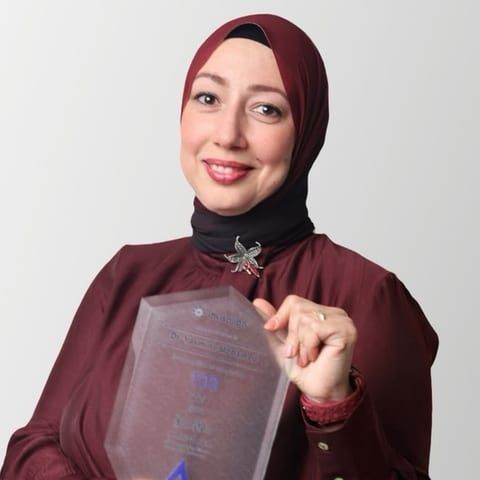
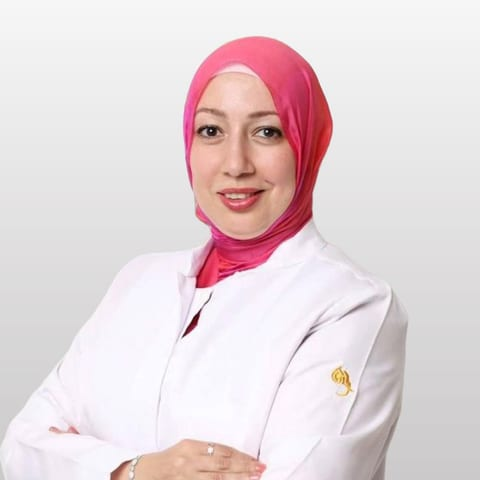
Add the dental team, new photos, doctors grouped by department with their branch
- Dentistry: Dr. Ahmed Sobhi, Dr. Ali Al-Khalili, Dr. Souad (moved from dermatology),
  Dr. Abdullah Al-Otaibi. Dermatology: Dr. Yasmine, Dr. Fatima Al-Zahraa (new photos),
  consultant Ahmed Al-Thubaiti.
- The medical staff section groups doctors by department and shows each one's branch;
  portrait crops for the cards.
- New doctors use clinic hours until their schedules are provided.

diff --git a/src/components/DoctorsSection.tsx b/src/components/DoctorsSection.tsx
@@ -1,18 +1,20 @@
 "use client";
 
 import Image from "next/image";
-import { CalendarCheck } from "lucide-react";
+import { CalendarCheck, MapPin } from "lucide-react";
 import { prefillBooking } from "@/lib/booking-prefill";
 import { useLocale } from "@/lib/locale-context";
 import Eyebrow from "./Eyebrow";
+import { serviceIconMap } from "./icon-map";
 
-// Every named doctor across the services, each with a one-tap "book with" that fills in the booking form.
+// Named doctors grouped by department (dentistry, dermatology…), each with their branch and a one-tap
+// "book with" that fills in the booking form.
 export default function DoctorsSection() {
   const { t } = useLocale();
-  const doctors = t.services.flatMap((s) =>
-    s.team.filter((m) => m.name && m.photo).map((m) => ({ ...m, service: s.icon })),
-  );
-  if (doctors.length === 0) return null;
+  const departments = t.services
+    .map((s) => ({ service: s, doctors: s.team.filter((m) => m.name && m.photo) }))
+    .filter((d) => d.doctors.length > 0);
+  if (departments.length === 0) return null;
 
   return (
     <section id="doctors" className="scroll-anchor bg-surface2">
@@ -23,40 +25,63 @@ export default function DoctorsSection() {
           <p className="mt-3 text-[14.5px] leading-relaxed text-ink-soft">{t.doctorsIntro}</p>
         </div>
 
-        <div className="mt-8 grid grid-cols-2 gap-4 md:grid-cols-4 md:gap-5">
-          {doctors.map((d) => (
-            <article
-              key={d.name}
-              className="group flex flex-col overflow-hidden rounded-2xl border border-line/25 bg-surface transition duration-300 hover:-translate-y-1.5 hover:shadow-[0_20px_40px_-20px_rgba(156,122,46,0.45)]"
-            >
-              <div className="relative aspect-[4/5] overflow-hidden bg-surface2">
-                <Image
-                  src={d.photo!}
-                  alt={d.name!}
-                  fill
-                  sizes="(min-width: 768px) 25vw, 50vw"
-                  className="object-cover object-top transition-transform duration-500 group-hover:scale-105"
-                />
+        {departments.map(({ service, doctors }) => {
+          const Icon = serviceIconMap[service.icon];
+          return (
+            <div key={service.icon} className="mt-10">
+              <h3 className="flex items-center gap-3 font-display text-[19px] text-ink">
+                <span className="grid h-9 w-9 place-items-center rounded-full bg-surface">
+                  <Icon size={18} className="text-gold" />
+                </span>
+                {service.title}
+                <span className="h-px flex-1 bg-line/30" />
+              </h3>
+
+              <div className="mt-5 grid grid-cols-2 gap-4 md:grid-cols-4 md:gap-5">
+                {doctors.map((d) => (
+                  <article
+                    key={d.name}
+                    className="group flex flex-col overflow-hidden rounded-2xl border border-line/25 bg-surface transition duration-300 hover:-translate-y-1.5 hover:shadow-[0_20px_40px_-20px_rgba(156,122,46,0.45)]"
+                  >
+                    <div className="relative aspect-[4/5] overflow-hidden bg-surface2">
+                      <Image
+                        src={d.portrait ?? d.photo!}
+                        alt={d.name!}
+                        fill
+                        sizes="(min-width: 768px) 25vw, 50vw"
+                        className="object-cover object-top transition-transform duration-500 group-hover:scale-105"
+                      />
+                    </div>
+                    <div className="flex flex-1 flex-col items-center gap-1 px-3 pt-3.5 pb-4 text-center">
+                      <p className="text-[15px] font-bold text-ink">{d.name}</p>
+                      <p className="text-[12.5px] leading-snug text-gold">{d.role}</p>
+                      {d.branch && (
+                        <p className="flex items-center gap-1 text-[12px] text-ink-soft">
+                          <MapPin size={12} />
+                          {t.branches.find((b) => b.id === d.branch)?.name}
+                        </p>
+                      )}
+                      <button
+                        type="button"
+                        onClick={() =>
+                          prefillBooking({ service: service.icon, branch: d.branch, doctor: d.name, doctorId: d.id })
+                        }
+                        className="mt-auto flex items-center gap-1.5 whitespace-nowrap rounded-full border border-gold-bright/60 px-3.5 py-1.5 text-[12.5px] font-bold text-gold transition-colors hover:bg-gold-bright hover:text-night2"
+                      >
+                        <CalendarCheck size={14} />
+                        {/* The name is right above on phones, so keep the button to one line there. */}
+                        <span className="md:hidden">{t.ctaBookNow}</span>
+                        <span className="hidden md:inline">
+                          {t.booking.bookWith} {d.name}
+                        </span>
+                      </button>
+                    </div>
+                  </article>
+                ))}
               </div>
-              <div className="flex flex-1 flex-col items-center gap-1 px-3 pt-3.5 pb-4 text-center">
-                <p className="text-[15px] font-bold text-ink">{d.name}</p>
-                <p className="text-[12.5px] text-gold">{d.role}</p>
-                <button
-                  type="button"
-                  onClick={() => prefillBooking({ service: d.service, branch: d.branch, doctor: d.name, doctorId: d.id })}
-                  className="mt-auto flex items-center gap-1.5 whitespace-nowrap rounded-full border border-gold-bright/60 px-3.5 py-1.5 text-[12.5px] font-bold text-gold transition-colors hover:bg-gold-bright hover:text-night2"
-                >
-                  <CalendarCheck size={14} />
-                  {/* The name is right above on phones, so keep the button to one line there. */}
-                  <span className="md:hidden">{t.ctaBookNow}</span>
-                  <span className="hidden md:inline">
-                    {t.booking.bookWith} {d.name}
-                  </span>
-                </button>
-              </div>
-            </article>
-          ))}
-        </div>
+            </div>
+          );
+        })}
       </div>
     </section>
   );

diff --git a/src/lib/content.ts b/src/lib/content.ts
@@ -20,6 +20,8 @@ export interface TeamMember {
   branch?: Branch["id"];
   // Links to their working hours in lib/doctors.ts.
   id?: DoctorId;
+  // Taller crop for the medical staff section; falls back to photo.
+  portrait?: string;
 }
 
 export interface ServiceContent {
@@ -260,7 +262,12 @@ export const arContent: Content = {
       extraLabel: "دليل درجات البياض",
       extraType: "shadeGuide",
       note: "دقة تشبه الحِرفة، لابتسامة تبدو أنها لم تُعالَج قط.",
-      team: [{ role: "استشاري طب أسنان" }, { role: "أخصائية تجميل أسنان" }, { role: "أخصائي تقويم" }],
+      team: [
+        { name: "د. أحمد صبحي", role: "استشاري جراحة وزراعة الأسنان", photo: "/images/team/ahmed-sobhi.jpg", portrait: "/images/team/ahmed-sobhi-portrait.jpg", branch: "khamseen", id: "ahmed-sobhi" },
+        { name: "د. علي الخليلي", role: "أخصائي علاج العصب والجذور", photo: "/images/team/ali-alkhalili.jpg", portrait: "/images/team/ali-alkhalili-portrait.jpg", branch: "khamseen", id: "ali-alkhalili" },
+        { name: "د. سعاد", role: "أخصائية تركيبات وتجميل الأسنان", photo: "/images/team/souad.jpg", portrait: "/images/team/souad-portrait.jpg", branch: "khamseen", id: "souad" },
+        { name: "د. عبدالله العتيبي", role: "طبيب أسنان عام", photo: "/images/team/abdullah-alotaibi.jpg", portrait: "/images/team/abdullah-alotaibi-portrait.jpg", branch: "khamseen", id: "abdullah-alotaibi" },
+      ],
     },
     {
       icon: "derma",
@@ -270,9 +277,8 @@ export const arContent: Content = {
       extraType: "radianceBar",
       note: "إشراقة تُقرأ في الإضاءة الطبيعية، لا في المرآة فقط.",
       team: [
-        { name: "د. ياسمين", role: "الجلدية والتجميل", photo: "/images/team/yasmine.jpg", branch: "khamseen", id: "yasmine" },
-        { name: "د. سعاد", role: "الجلدية والتجميل", photo: "/images/team/souad.jpg", branch: "khamseen", id: "souad" },
-        { name: "د. فاطمة الزهراء", role: "الجلدية والتجميل", photo: "/images/team/fatima-alzahraa.jpg", branch: "khamseen", id: "fatima-alzahraa" },
+        { name: "د. ياسمين", role: "الجلدية والتجميل", photo: "/images/team/yasmine.jpg", portrait: "/images/team/yasmine-portrait.jpg", branch: "khamseen", id: "yasmine" },
+        { name: "د. فاطمة الزهراء", role: "الجلدية والتجميل", photo: "/images/team/fatima-alzahraa.jpg", portrait: "/images/team/fatima-alzahraa-portrait.jpg", branch: "khamseen", id: "fatima-alzahraa" },
         { name: "أحمد الثبيتي", role: "استشاري", photo: "/images/team/ahmed-althubaiti.jpg", branch: "khamseen", id: "ahmed-althubaiti" },
       ],
     },
@@ -451,7 +457,12 @@ export const enContent: Content = {
       extraLabel: "Shade Guide Reference",
       extraType: "shadeGuide",
       note: "Craftsman precision, for a smile that never looks treated.",
-      team: [{ role: "Dental Consultant" }, { role: "Cosmetic Dentistry Specialist" }, { role: "Orthodontics Specialist" }],
+      team: [
+        { name: "Dr. Ahmed Sobhi", role: "Consultant, Oral Surgery & Implants", photo: "/images/team/ahmed-sobhi.jpg", portrait: "/images/team/ahmed-sobhi-portrait.jpg", branch: "khamseen", id: "ahmed-sobhi" },
+        { name: "Dr. Ali Al-Khalili", role: "Endodontics (Root Canal) Specialist", photo: "/images/team/ali-alkhalili.jpg", portrait: "/images/team/ali-alkhalili-portrait.jpg", branch: "khamseen", id: "ali-alkhalili" },
+        { name: "Dr. Souad", role: "Prosthodontics & Cosmetic Dentistry", photo: "/images/team/souad.jpg", portrait: "/images/team/souad-portrait.jpg", branch: "khamseen", id: "souad" },
+        { name: "Dr. Abdullah Al-Otaibi", role: "General Dentist", photo: "/images/team/abdullah-alotaibi.jpg", portrait: "/images/team/abdullah-alotaibi-portrait.jpg", branch: "khamseen", id: "abdullah-alotaibi" },
+      ],
     },
     {
       icon: "derma",
@@ -461,9 +472,8 @@ export const enContent: Content = {
       extraType: "radianceBar",
       note: "A glow that reads in daylight, not only in the mirror.",
       team: [
-        { name: "Dr. Yasmine", role: "Dermatology & Aesthetics", photo: "/images/team/yasmine.jpg", branch: "khamseen", id: "yasmine" },
-        { name: "Dr. Souad", role: "Dermatology & Aesthetics", photo: "/images/team/souad.jpg", branch: "khamseen", id: "souad" },
-        { name: "Dr. Fatima Al-Zahraa", role: "Dermatology & Aesthetics", photo: "/images/team/fatima-alzahraa.jpg", branch: "khamseen", id: "fatima-alzahraa" },
+        { name: "Dr. Yasmine", role: "Dermatology & Aesthetics", photo: "/images/team/yasmine.jpg", portrait: "/images/team/yasmine-portrait.jpg", branch: "khamseen", id: "yasmine" },
+        { name: "Dr. Fatima Al-Zahraa", role: "Dermatology & Aesthetics", photo: "/images/team/fatima-alzahraa.jpg", portrait: "/images/team/fatima-alzahraa-portrait.jpg", branch: "khamseen", id: "fatima-alzahraa" },
         { name: "Ahmed Al-Thubaiti", role: "Consultant", photo: "/images/team/ahmed-althubaiti.jpg", branch: "khamseen", id: "ahmed-althubaiti" },
       ],
     },

diff --git a/src/lib/doctors.ts b/src/lib/doctors.ts
@@ -1,7 +1,8 @@
 // Doctor working hours (Riyadh time), used by the booking form, the booking API and the /admin schedule tab.
 // Keep in sync with whitemoon-app/src/lib/doctors.ts. Slots are every 30 minutes from the start of each shift; the
 // last one starts half an hour before the shift ends.
-export type DoctorId = "yasmine" | "souad" | "fatima-alzahraa" | "ahmed-althubaiti";
+export type DoctorId =
+  "yasmine" | "fatima-alzahraa" | "ahmed-althubaiti" | "souad" | "ali-alkhalili" | "ahmed-sobhi" | "abdullah-alotaibi";
 
 type Shift = [start: string, end: string]; // "HH:MM"
 
@@ -14,6 +15,8 @@ interface DoctorSchedule {
 }
 
 const EVERY_DAY = [0, 1, 2, 3, 4, 5, 6];
+// Clinic hours, for doctors whose own schedule hasn't been provided yet.
+const CLINIC_HOURS: Shift[] = [["09:00", "22:00"]];
 
 export const DOCTORS: Record<DoctorId, DoctorSchedule> = {
   yasmine: {
@@ -29,7 +32,7 @@ export const DOCTORS: Record<DoctorId, DoctorSchedule> = {
   souad: {
     names: ["د. سعاد", "Dr. Souad"],
     branch: "khamseen",
-    service: "derma",
+    service: "dentistry",
     days: EVERY_DAY,
     shifts: [
       ["09:30", "12:30"],
@@ -49,6 +52,27 @@ export const DOCTORS: Record<DoctorId, DoctorSchedule> = {
     service: "derma",
     days: [0, 3], // Sunday and Wednesday
     shifts: [["17:00", "21:00"]],
+  },
+  "ali-alkhalili": {
+    names: ["د. علي الخليلي", "Dr. Ali Al-Khalili"],
+    branch: "khamseen",
+    service: "dentistry",
+    days: EVERY_DAY,
+    shifts: CLINIC_HOURS,
+  },
+  "ahmed-sobhi": {
+    names: ["د. أحمد صبحي", "Dr. Ahmed Sobhi"],
+    branch: "khamseen",
+    service: "dentistry",
+    days: EVERY_DAY,
+    shifts: CLINIC_HOURS,
+  },
+  "abdullah-alotaibi": {
+    names: ["د. عبدالله العتيبي", "Dr. Abdullah Al-Otaibi"],
+    branch: "khamseen",
+    service: "dentistry",
+    days: EVERY_DAY,
+    shifts: CLINIC_HOURS,
   },
 };
 

diff --git a/src/components/TeamCarousel.tsx b/src/components/TeamCarousel.tsx
@@ -56,7 +56,12 @@ export default function TeamCarousel({ team, service }: { team: TeamMember[]; se
           )}
           <span className="text-center">
             {member.name && <span className="block text-[14px] font-bold text-ink">{member.name}</span>}
-            <span className={member.name ? "block text-[12px] text-ink-soft" : "text-[13px] font-bold text-ink"}>{member.role}</span>
+            <span className={member.name ? "block text-[12px] text-ink-soft" : "text-[13px] font-bold text-ink"}>
+              {member.role}
+            </span>
+            {member.branch && (
+              <span className="block text-[11.5px] text-gold">{t.branches.find((b) => b.id === member.branch)?.name}</span>
+            )}
           </span>
           {member.name && (
             <button
